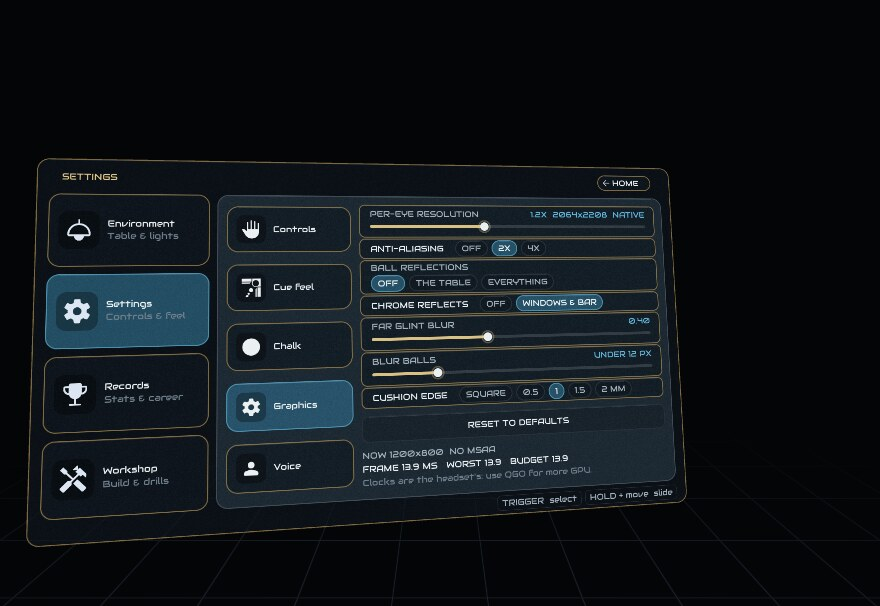
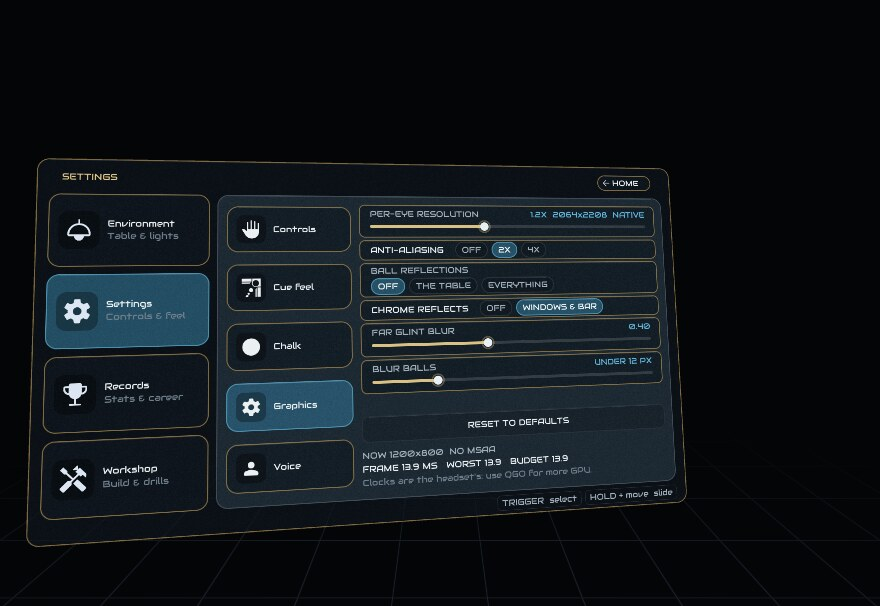
The graphics screen has no cushion row to name

Changed region(s): [[0.3989, 0.3861, 0.767, 0.6832]]

diff --git a/docs/cuevr-guide.html b/docs/cuevr-guide.html
@@ -306,8 +306,8 @@
     <tr><td><b>Lighting and surroundings</b></td><td><b>Environment</b> &rarr; <b>Lighting</b> or
       <b>Surroundings</b>. Your room, the dark hall and the arena are also three chips on the
       <b>pause menu</b>, since that is the one you change mid-frame.</td></tr>
-    <tr><td><b>Resolution, anti-aliasing, ball reflections, cushion edge</b></td><td><b>Settings
-      &rarr; Graphics</b>, which also prints what the last frame cost.</td></tr>
+    <tr><td><b>Resolution, anti-aliasing, ball reflections</b></td><td><b>Settings &rarr;
+      Graphics</b>, which also prints what the last frame cost.</td></tr>
     <tr><td><b>Move the table, or set its height again</b></td><td><b>Environment &rarr;
       Table</b>, or the <b>Table</b> square on the pause menu.</td></tr>
     <tr><td><b>Move the scoreboard</b></td><td><b>Environment &rarr; Scoreboard</b>. See
@@ -339,9 +339,8 @@
       <figcaption>The strip along the foot &mdash; <b>TABLE</b>, <b>CLOTH</b>, <b>TIMBER</b>,
       <b>BALLS</b>, <b>CUE</b> &mdash; is how the table looks.</figcaption></figure>
     <figure><img src="img/cuevr/menu-graphics.jpg" alt="The graphics screen">
-      <figcaption><b>Settings &rarr; Graphics</b> — per-eye resolution, anti-aliasing, how much of the
-      room the balls reflect, and how much of an edge the cushion's nose carries, with what the
-      last frame cost underneath.</figcaption></figure>
+      <figcaption><b>Settings &rarr; Graphics</b> — per-eye resolution, anti-aliasing and how much
+      of the room the balls reflect, with what the last frame cost underneath.</figcaption></figure>
     <figure><img src="img/cuevr/menu-controls.jpg" alt="The controls screen">
       <figcaption><b>Settings &rarr; Controls</b> — which hand holds the cue, controllers or a real
       cue, and how the sticks move the table.</figcaption></figure>
